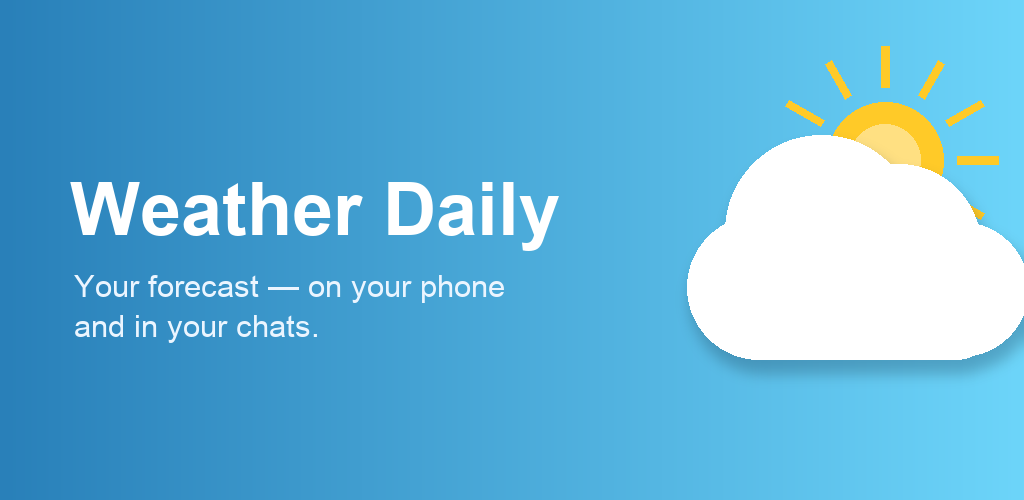
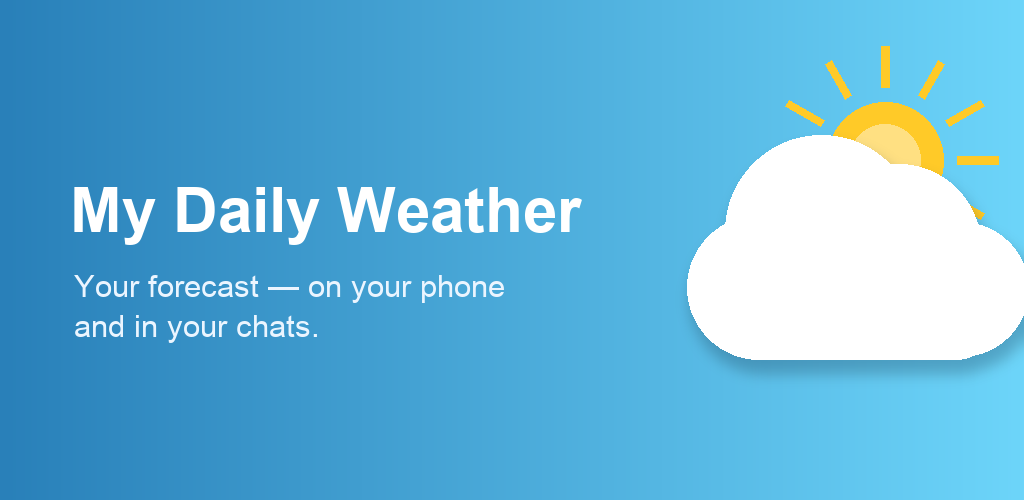
Rename app display name to "My Daily Weather"
Updates the user-facing name everywhere (Android label, iOS display name,
Flutter title, web PWA, privacy screen/page, listing copy, feature graphic).
Package id (com.weatherdaily.weather_daily) and repo name are unchanged.
Also refreshes listing copy: 7-day -> 12-day, adds driest-days mention.

Changed region(s): [[0.0625, 0.36, 0.5938, 0.51]]

diff --git a/docs/index.html b/docs/index.html
@@ -3,7 +3,7 @@
 <head>
   <meta charset="utf-8" />
   <meta name="viewport" content="width=device-width, initial-scale=1" />
-  <title>Weather Daily — Privacy Policy</title>
+  <title>My Daily Weather — Privacy Policy</title>
   <style>
     :root { --blue: #2980b9; --light: #6dd5fa; }
     * { box-sizing: border-box; }
@@ -32,11 +32,11 @@
 </head>
 <body>
   <header>
-    <h1>Weather Daily — Privacy Policy</h1>
+    <h1>My Daily Weather — Privacy Policy</h1>
     <p>Last updated: 14 June 2026</p>
   </header>
   <main>
-    <p>Weather Daily (&ldquo;we&rdquo;, &ldquo;the service&rdquo;) respects your privacy.
+    <p>My Daily Weather (&ldquo;we&rdquo;, &ldquo;the service&rdquo;) respects your privacy.
        This policy covers both the <strong>mobile app</strong> and the
        <strong>Telegram weather bot</strong>, which handle your location differently.</p>
 
@@ -89,6 +89,6 @@
       <p>Questions about this policy: <a href="mailto:[email redacted]">[email redacted]</a></p>
     </section>
   </main>
-  <footer>© 2026 Weather Daily</footer>
+  <footer>© 2026 My Daily Weather</footer>
 </body>
 </html>

diff --git a/app/web/index.html b/app/web/index.html
@@ -23,13 +23,13 @@
   <!-- iOS meta tags & icons -->
   <meta name="mobile-web-app-capable" content="yes">
   <meta name="apple-mobile-web-app-status-bar-style" content="black">
-  <meta name="apple-mobile-web-app-title" content="weather_daily">
+  <meta name="apple-mobile-web-app-title" content="My Daily Weather">
   <link rel="apple-touch-icon" href="icons/Icon-192.png">
 
   <!-- Favicon -->
   <link rel="icon" type="image/png" href="favicon.png"/>
 
-  <title>weather_daily</title>
+  <title>My Daily Weather</title>
   <link rel="manifest" href="manifest.json">
 </head>
 <body>

diff --git a/app/lib/main.dart b/app/lib/main.dart
@@ -9,7 +9,7 @@ class WeatherDailyApp extends StatelessWidget {
   @override
   Widget build(BuildContext context) {
     return MaterialApp(
-      title: 'Weather Daily',
+      title: 'My Daily Weather',
       debugShowCheckedModeBanner: false,
       theme: ThemeData(
         useMaterial3: true,

diff --git a/app/lib/screens/privacy_screen.dart b/app/lib/screens/privacy_screen.dart
@@ -17,7 +17,7 @@ class PrivacyScreen extends StatelessWidget {
       body: ListView(
         padding: const EdgeInsets.all(20),
         children: const [
-          Text('Privacy Policy — Weather Daily',
+          Text('Privacy Policy — My Daily Weather',
               style: TextStyle(fontSize: 20, fontWeight: FontWeight.bold)),
           SizedBox(height: 4),
           Text('Last updated: 2026-06-14',

diff --git a/store-assets/make_store_assets.py b/store-assets/make_store_assets.py
@@ -86,9 +86,9 @@ def make_feature():
     draw_cloud(img, 860, 275, 240)
 
     d = ImageDraw.Draw(img)
-    title = ImageFont.truetype(FONT_BOLD, 74)
+    title = ImageFont.truetype(FONT_BOLD, 62)
     tag = ImageFont.truetype(FONT_REG, 31)
-    d.text((70, 168), 'Weather Daily', font=title, fill=(255, 255, 255))
+    d.text((70, 175), 'My Daily Weather', font=title, fill=(255, 255, 255))
     d.text((74, 268), 'Your forecast — on your phone', font=tag, fill=(235, 245, 255))
     d.text((74, 308), 'and in your chats.', font=tag, fill=(235, 245, 255))
 

diff --git a/docs/STORE_LISTING.md b/docs/STORE_LISTING.md
@@ -7,17 +7,17 @@ Google's; the text below fits them.
 
 ## App name (max 30 chars)
 ```
-Weather Daily
+My Daily Weather
 ```
 
 ## Short description (max 80 chars)
 ```
-Live local weather & a 7-day forecast, delivered to your chat every morning.
+Live local weather & a 12-day forecast, delivered to your chat every morning.
 ```
 
 ## Full description (max 4000 chars)
 ```
-Weather Daily gives you a clean, fast look at the weather wherever you are — and
+My Daily Weather gives you a clean, fast look at the weather wherever you are — and
 can message your daily forecast straight to your favorite chat app.
 
 CURRENT CONDITIONS AT A GLANCE
@@ -26,9 +26,10 @@ CURRENT CONDITIONS AT A GLANCE
 • Sunrise and sunset times
 • A colorful background that changes with the weather
 
-7-DAY FORECAST
-• See the week ahead at a glance
+12-DAY FORECAST
+• See nearly two weeks ahead at a glance
 • Daily highs, lows, conditions, and rain chance
+• Highlights the 3 driest days, ranked, so you can plan around the rain
 
 ANYWHERE IN THE WORLD
 • Search any city instantly
@@ -36,7 +37,7 @@ ANYWHERE IN THE WORLD
 • Your last location is remembered for next time
 
 DAILY WEATHER IN YOUR CHAT (optional)
-• Pair Weather Daily with our companion bot to get your morning forecast
+• Pair My Daily Weather with our companion bot to get your morning forecast
   delivered to Telegram automatically — no need to open the app
 
 PRIVACY FIRST

diff --git a/docs/PRIVACY_POLICY.md b/docs/PRIVACY_POLICY.md
@@ -1,8 +1,8 @@
-# Privacy Policy — Weather Daily
+# Privacy Policy — My Daily Weather
 
 _Last updated: 2026-06-14_
 
-Weather Daily ("we", "the service") respects your privacy. This policy covers
+My Daily Weather ("we", "the service") respects your privacy. This policy covers
 both the **mobile app** and the **Telegram weather bot**, which handle your
 location differently — please read both sections.
 